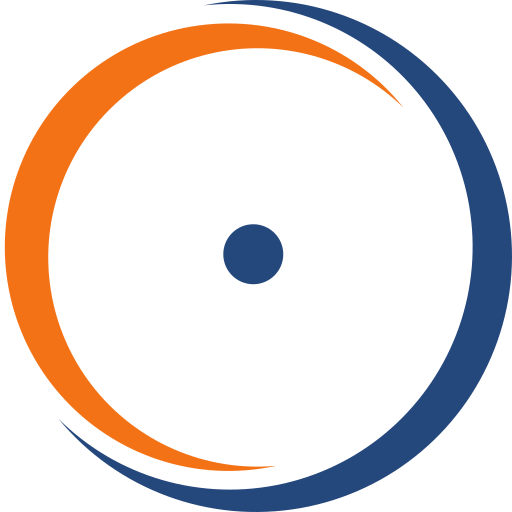
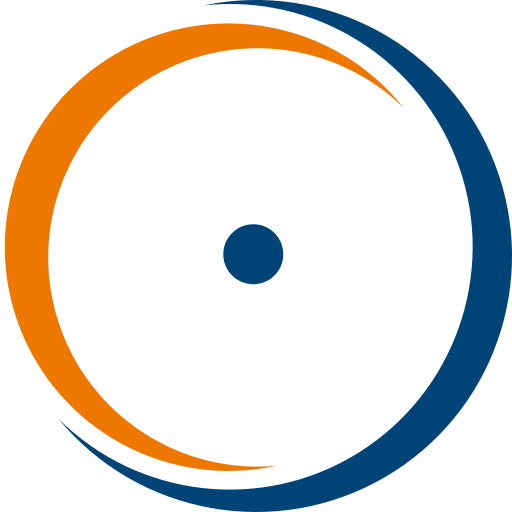
Apply official ADFC colors

Changed region(s): [[0.2188, 0.0, 1.0, 1.0], [0.4375, 0.4375, 0.5625, 0.5625], [0.1562, 0.8438, 0.2188, 0.9062]]

diff --git a/static/css/form.css b/static/css/form.css
@@ -5,9 +5,8 @@
 	--adfc-orange:	#ee7f00;
 	--adfc-green:	#00793a;
 
-	--highlight:	#f47216;
+	--highlight:	var(--adfc-orange);
 	--radio-color:	hsl(25, 91%, 50%);
-	--fldst-color:	hsl(25, 91%, 95%);
 	--invalid-color:hsl(348, 100%, 50%);
 
 	--font-sans:	"Arimo","Liberation Sans","Open Sans",Arial,Helvetica,sans-serif;
@@ -151,9 +150,8 @@ form {
 	padding:	0.5em;
 }
 form > header {
-	--highlight:	#24477c;
+	--highlight:	var(--adfc-blue);
 	--radio-color:	var(--adfc-blue);
-	--fldst-color:	hsl(216, 55%, 95%);
 
 	padding-bottom:	1.5em;
 	border-style:	none none dotted;
@@ -166,7 +164,7 @@ form > header {
 fieldset {
 	max-width:	62em;
 	margin:		1em auto 0;
-	background-color:var(--fldst-color);
+	background-color:rgb(from var(--highlight) r g b / 8%);
 
 	border: 2px solid var(--highlight);
 }
@@ -290,7 +288,7 @@ label.option > input[type="radio"] {
 		color:		white;
 
 		padding:	0.25em;
-		border:		0.2em outset hsl(25, 91%, 76%);
+		border:		0.2em outset hsl(32, 91%, 76%);
 		border-radius:	0.25em;
 
 		text-decoration:none;
